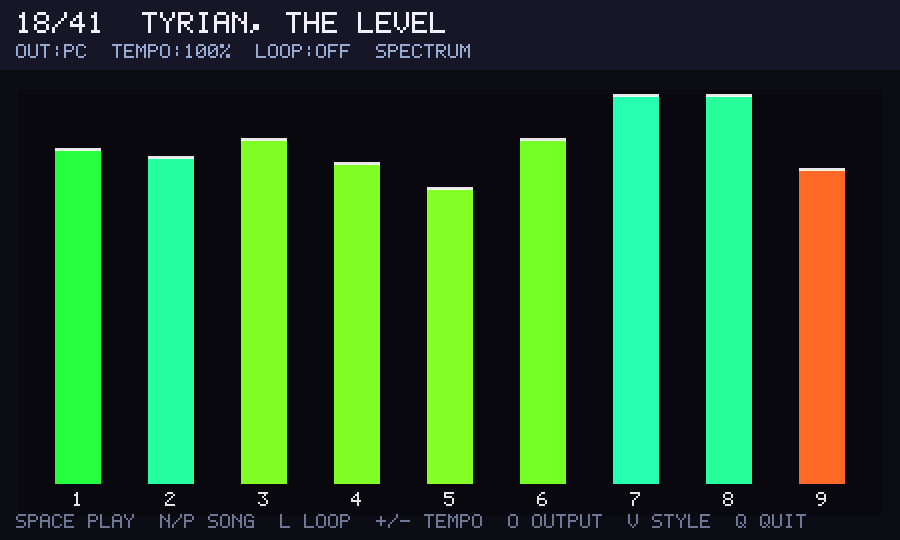
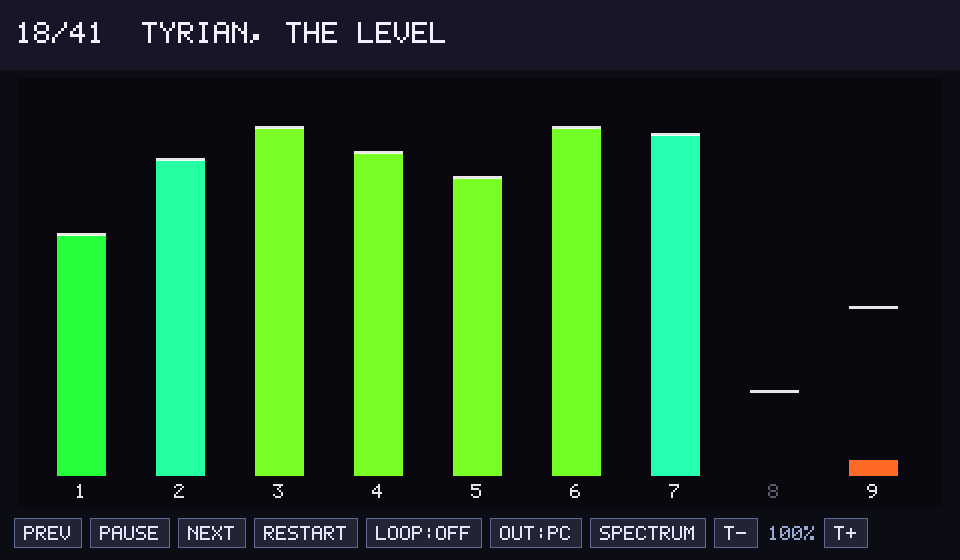
GUI: clickable controls + envelope-driven, livelier bars
- On-screen clickable button bar (prev/play/next/restart/loop/output/style/
  tempo), mirroring the keyboard. Shared do_action() dispatch; hover highlight.
- Bars now track each channel's real carrier envelope read from the emulator
  (new opl_carrier_env() probe in opl.c) instead of just key-on*level, so they
  rise and fall with the actual sound — fixes the "stuck" / static bars and
  makes them lively. Snappier attack/release smoothing.
- Cleaner header; wider default window so the full control bar fits.
- Refreshed docs screenshots.

Claude-Session: https://claude.ai/code/session_017QpGUpiZNHxga1jaZw9sKq

diff --git a/src/rwgui.c b/src/rwgui.c
@@ -218,23 +218,27 @@ static void viz_update(void)
 	for (int ch = 0; ch < NCH; ++ch)
 	{
 		int base = op_table[ch];
-		bool on = (fmchip[0xB0 + ch] & 0x20) != 0;
 		int carrier_tl = fmchip[0x43 + base] & 0x3f;
-		float amp = on ? (0x3f - carrier_tl) / 63.0f : 0.0f;
+		float loud = (0x3f - carrier_tl) / 63.0f;          // note loudness from TL
+
+		// Real carrier envelope from the emulator: rises on attack, settles to
+		// sustain, falls on release -- so bars actually move with the sound.
+		float env = (float)opl_carrier_env(ch);
+		float amp = env * loud;
+		if (amp > 1) amp = 1;
 
 		int fnum = fmchip[0xA0 + ch] | ((fmchip[0xB0 + ch] & 3) << 8);
 		int block = (fmchip[0xB0 + ch] >> 2) & 7;
 		float pitch = (block * 1024 + fnum) / (8.0f * 1024.0f);   // 0..1
 
 		VizChan *v = &viz[ch];
-		v->on = on;
-		if (amp > v->level) v->level = amp;                     // instant attack
-		else v->level += (amp - v->level) * 0.12f;              // smooth release
+		v->on = amp > 0.01f;
+		v->level += (amp - v->level) * (amp > v->level ? 0.6f : 0.25f);   // snappy
 		if (v->level < 0) v->level = 0;
 		if (v->level > v->peak) v->peak = v->level;
-		else v->peak -= 0.010f;
+		else v->peak -= 0.012f;
 		if (v->peak < v->level) v->peak = v->level;
-		if (on) v->hue = pitch;
+		if (v->on) v->hue = pitch;
 	}
 }
 
@@ -383,6 +387,91 @@ static void cycle_output(void)
 	if ((out_board) && !retrowave_active) { out_board = false; out_pc = true; }  // no board
 }
 
+/* ------------------------------------------------------------------ */
+/* Actions (shared by keyboard and on-screen buttons).                 */
+/* ------------------------------------------------------------------ */
+
+enum { ACT_PREV, ACT_PLAY, ACT_NEXT, ACT_RESTART, ACT_LOOP,
+       ACT_OUTPUT, ACT_STYLE, ACT_TDN, ACT_TUP };
+
+static void do_action(int a)
+{
+	switch (a)
+	{
+	case ACT_PREV:    play_index(cur_song - 1); break;
+	case ACT_NEXT:    play_index(cur_song + 1); break;
+	case ACT_PLAY:    paused = !paused; break;
+	case ACT_RESTART: SDL_LockAudioDevice(audio_dev); lds_rewind();
+	                  samples_until_update = 0; SDL_UnlockAudioDevice(audio_dev); break;
+	case ACT_LOOP:    loop = !loop; break;
+	case ACT_OUTPUT:  cycle_output(); break;
+	case ACT_STYLE:   style = (style + 1) % STYLE_COUNT; break;
+	case ACT_TUP:     if (tempo_pct < 300) tempo_pct += 10; recompute_timing(); break;
+	case ACT_TDN:     if (tempo_pct > 20)  tempo_pct -= 10; recompute_timing(); break;
+	}
+}
+
+// On-screen buttons (immediate-mode): laid out + drawn each frame, hit-tested
+// against the previous frame's rects (layout only changes on resize).
+typedef struct { SDL_Rect r; int act; } Button;
+static Button g_btn[16];
+static int g_nbtn;
+
+static int add_button(SDL_Renderer *ren, int x, int y, int h, const char *label,
+                      int act, int mx, int my)
+{
+	int s = 2, pad = 10, w = text_w(label, s) + pad * 2;
+	bool hover = mx >= x && mx < x + w && my >= y && my < y + h;
+	fill(ren, x, y, w, h, hover ? (RGB){ 58, 64, 96 } : (RGB){ 34, 36, 54 }, 255);
+	SDL_SetRenderDrawColor(ren, 95, 105, 150, 255);
+	SDL_Rect b = { x, y, w, h };
+	SDL_RenderDrawRect(ren, &b);
+	draw_text(ren, x + pad, y + (h - FONT_H * s) / 2, s, (RGB){ 225, 230, 250 }, label);
+	if (g_nbtn < (int)(sizeof(g_btn) / sizeof(g_btn[0])))
+	{
+		g_btn[g_nbtn].r = b;
+		g_btn[g_nbtn].act = act;
+		g_nbtn++;
+	}
+	return x + w + 8;
+}
+
+static void draw_controls(SDL_Renderer *ren, int W, int H)
+{
+	(void)W;
+	int mx, my;
+	SDL_GetMouseState(&mx, &my);
+	int by = H - 42, bh = 30, bx = 14;
+	char b[32];
+	g_nbtn = 0;
+	bx = add_button(ren, bx, by, bh, "PREV", ACT_PREV, mx, my);
+	bx = add_button(ren, bx, by, bh, paused ? "PLAY" : "PAUSE", ACT_PLAY, mx, my);
+	bx = add_button(ren, bx, by, bh, "NEXT", ACT_NEXT, mx, my);
+	bx = add_button(ren, bx, by, bh, "RESTART", ACT_RESTART, mx, my);
+	snprintf(b, sizeof b, "LOOP:%s", loop ? "ON" : "OFF");
+	bx = add_button(ren, bx, by, bh, b, ACT_LOOP, mx, my);
+	char out[8]; output_label(out, sizeof out);
+	snprintf(b, sizeof b, "OUT:%s", out);
+	bx = add_button(ren, bx, by, bh, b, ACT_OUTPUT, mx, my);
+	bx = add_button(ren, bx, by, bh, STYLE_NAME[style], ACT_STYLE, mx, my);
+	bx = add_button(ren, bx, by, bh, "T-", ACT_TDN, mx, my);
+	snprintf(b, sizeof b, "%d%%", tempo_pct);
+	draw_text(ren, bx + 2, by + (bh - FONT_H * 2) / 2, 2, (RGB){ 150, 170, 210 }, b);
+	bx += text_w(b, 2) + 10;
+	add_button(ren, bx, by, bh, "T+", ACT_TUP, mx, my);
+}
+
+static void handle_click(int x, int y)
+{
+	for (int i = 0; i < g_nbtn; ++i)
+		if (x >= g_btn[i].r.x && x < g_btn[i].r.x + g_btn[i].r.w &&
+		    y >= g_btn[i].r.y && y < g_btn[i].r.y + g_btn[i].r.h)
+		{
+			do_action(g_btn[i].act);
+			return;
+		}
+}
+
 int main(int argc, char *argv[])
 {
 	const char *dev = "ttyACM0";
@@ -438,7 +527,7 @@ int main(int argc, char *argv[])
 	recompute_timing();
 
 	SDL_Window *win = SDL_CreateWindow("Tyrian \xc2\xb7 RetroWave OPL3",
-		SDL_WINDOWPOS_CENTERED, SDL_WINDOWPOS_CENTERED, 900, 540,
+		SDL_WINDOWPOS_CENTERED, SDL_WINDOWPOS_CENTERED, 960, 560,
 		SDL_WINDOW_SHOWN | SDL_WINDOW_RESIZABLE);
 	SDL_Renderer *ren = SDL_CreateRenderer(win, -1,
 		SDL_RENDERER_ACCELERATED | SDL_RENDERER_PRESENTVSYNC);
@@ -457,19 +546,21 @@ int main(int argc, char *argv[])
 		while (SDL_PollEvent(&e))
 		{
 			if (e.type == SDL_QUIT) running = false;
+			else if (e.type == SDL_MOUSEBUTTONDOWN && e.button.button == SDL_BUTTON_LEFT)
+				handle_click(e.button.x, e.button.y);
 			else if (e.type == SDL_KEYDOWN)
 			{
 				switch (e.key.keysym.sym)
 				{
 				case SDLK_q: case SDLK_ESCAPE: running = false; break;
-				case SDLK_SPACE: paused = !paused; break;
-				case SDLK_n: case SDLK_RIGHT: play_index(cur_song + 1); break;
-				case SDLK_p: case SDLK_LEFT:  play_index(cur_song - 1); break;
+				case SDLK_SPACE: do_action(ACT_PLAY); break;
+				case SDLK_n: case SDLK_RIGHT: do_action(ACT_NEXT); break;
+				case SDLK_p: case SDLK_LEFT:  do_action(ACT_PREV); break;
 				case SDLK_r: SDL_LockAudioDevice(audio_dev); lds_rewind();
 				             samples_until_update = 0; SDL_UnlockAudioDevice(audio_dev); break;
-				case SDLK_l: loop = !loop; break;
-				case SDLK_o: cycle_output(); break;
-				case SDLK_v: style = (style + 1) % STYLE_COUNT; break;
+				case SDLK_l: do_action(ACT_LOOP); break;
+				case SDLK_o: do_action(ACT_OUTPUT); break;
+				case SDLK_v: do_action(ACT_STYLE); break;
 				case SDLK_EQUALS: case SDLK_PLUS: case SDLK_KP_PLUS:
 					if (tempo_pct < 300) tempo_pct += 10;
 					recompute_timing(); break;
@@ -495,24 +586,19 @@ int main(int argc, char *argv[])
 		fill(ren, 0, 0, W, H, (RGB){ 12, 12, 20 }, 255);
 		fill(ren, 0, 0, W, 70, (RGB){ 22, 22, 38 }, 255);
 
-		// header: song + transport state
-		char line[160], out[8];
-		output_label(out, sizeof out);
-		snprintf(line, sizeof line, "%02d/%02d  %s", cur_song + 1, song_count, song_name(cur_song));
-		draw_text(ren, 16, 12, 3, (RGB){ 240, 240, 255 }, line);
-		snprintf(line, sizeof line, "OUT:%s  TEMPO:%d%%  LOOP:%s  %s%s",
-		         out, tempo_pct, loop ? "ON" : "OFF", STYLE_NAME[style],
-		         paused ? "  -PAUSED-" : "");
-		draw_text(ren, 16, 44, 2, (RGB){ 150, 170, 210 }, line);
+		// header: song number + title
+		char line[160];
+		snprintf(line, sizeof line, "%02d/%02d  %s%s", cur_song + 1, song_count,
+		         song_name(cur_song), paused ? "   -PAUSED-" : "");
+		draw_text(ren, 16, 22, 3, (RGB){ 240, 240, 255 }, line);
 
 		// visualizer area
-		int ax = 24, ay = 96, aw = W - 48, ah = H - 96 - 56;
+		int ax = 24, ay = 84, aw = W - 48, ah = H - 84 - 84;
 		fill(ren, ax - 6, ay - 6, aw + 12, ah + 12 + 26, (RGB){ 8, 8, 14 }, 255);
 		draw_bars(ren, ax, ay, aw, ah);
 
-		// footer: help
-		draw_text(ren, 16, H - 26, 2, (RGB){ 110, 120, 150 },
-		          "SPACE PLAY  N/P SONG  L LOOP  +/- TEMPO  O OUTPUT  V STYLE  Q QUIT");
+		// clickable control bar
+		draw_controls(ren, W, H);
 
 		SDL_RenderPresent(ren);
 

diff --git a/src/emu/opl.c b/src/emu/opl.c
@@ -1618,3 +1618,13 @@ void adlib_getsample(Bit16s* sndptr, Bits numsamples) {
 
 	}
 }
+
+/* --- tyrian-retrowave addition (not part of the original DOSBox code) -------
+ * Per-channel carrier envelope probe for the GUI visualizer.  Returns the
+ * carrier operator's smoothed envelope amplitude (~0..1) for 2-op channel
+ * `ch` (0..8), reflecting the live attack/decay/sustain/release state.       */
+double opl_carrier_env(int ch)
+{
+	if (ch < 0 || 9 + ch >= (int)MAXOPERATORS) return 0.0;
+	return (double)op[9 + ch].step_amp;
+}

diff --git a/src/emu/opl.h b/src/emu/opl.h
@@ -37,6 +37,9 @@ void adlib_write_index(Bitu port, Bit8u val);
 // Set by the GUI before opl_init() is first reached (used by opl_init macro).
 extern int audioSampleRate;
 
+// Per-channel carrier envelope (~0..1) for the visualizer (added to opl.c).
+double opl_carrier_env(int ch);
+
 // GUI fan-out hooks, defined in rwgui.c.
 void rwgui_opl_init(void);
 void rwgui_opl_write(unsigned int reg, Bit8u val);

diff --git a/README.md b/README.md
@@ -42,13 +42,17 @@ carrier level). Three switchable styles:
 |---|---|---|
 | ![](docs/visualizer-led.png) | ![](docs/visualizer-neon.png) | ![](docs/visualizer-spectrum.png) |
 
-Output is selectable at runtime: **PC**, **Board**, or **Both**. If the board
-isn't connected it falls back to PC audio, so the app works on any machine.
+The bars track each channel's **real output envelope** read from the emulator,
+so they rise and fall with the actual sound (attack/decay/release), not just
+note on/off. Output is selectable at runtime: **PC**, **Board**, or **Both**;
+if the board isn't connected it falls back to PC audio, so the app works on any
+machine.
+
+A clickable button bar along the bottom mirrors every control. The same actions
+are on the keyboard:
 
 Options: `-d DEV` (serial device, `-` = no board), `-s N` (start song), `-l`
 (loop).
-
-Keys:
 
 | key | action | key | action |
 |---|---|---|---|
@@ -85,7 +89,9 @@ redistributable and is not included here.
 - `src/rwgui.c` — GUI: an SDL2 app whose audio callback clocks the driver from
   the sample counter (as the original game does), fans the register stream out
   to the emulator (PC), the board, and the visualizer, and renders the bars.
-- `src/emu/opl.c` — DOSBox software OPL2/OPL3 emulator (GUI/PC audio only).
+- `src/emu/opl.c` — DOSBox software OPL2/OPL3 emulator (GUI/PC audio only), with
+  a small appended `opl_carrier_env()` probe that exposes each channel's carrier
+  envelope for the visualizer.
 - `src/compat/` — tiny stand-ins for the OpenTyrian headers `lds_play.c`
   includes, so the CLI needs no SDL.
 